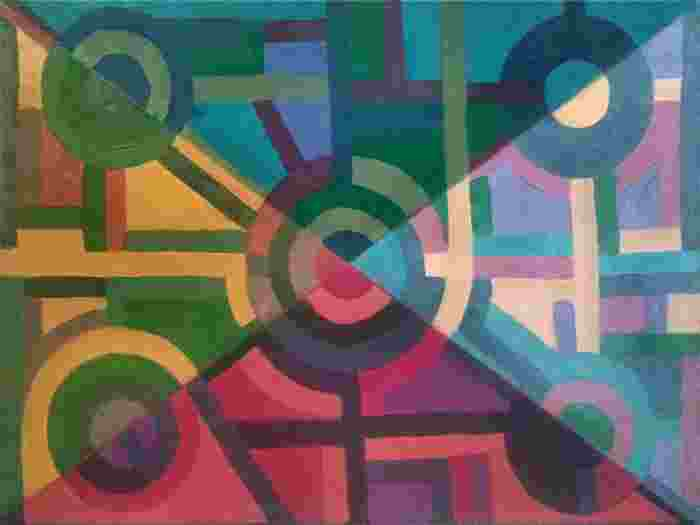
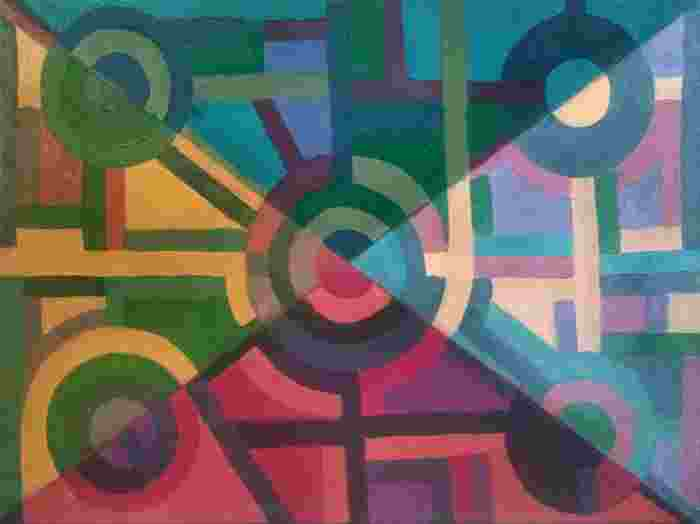
Update painting

diff --git a/js/users.js b/js/users.js
@@ -15,7 +15,7 @@ const gundurraga = [
     DimensionCm:"50 x 70 cm",
     DimensionIn:"19.7 x 27.6 in.",
     ImageSize:"3.7",
-    ImageDimension:"4160 x 3120",
+    ImageDimension:"4149 x 3108",
     License: "CC0 1.0 Universal",
     LicenseLink: "https://creativecommons.org/publicdomain/zero/1.0/",
   },
